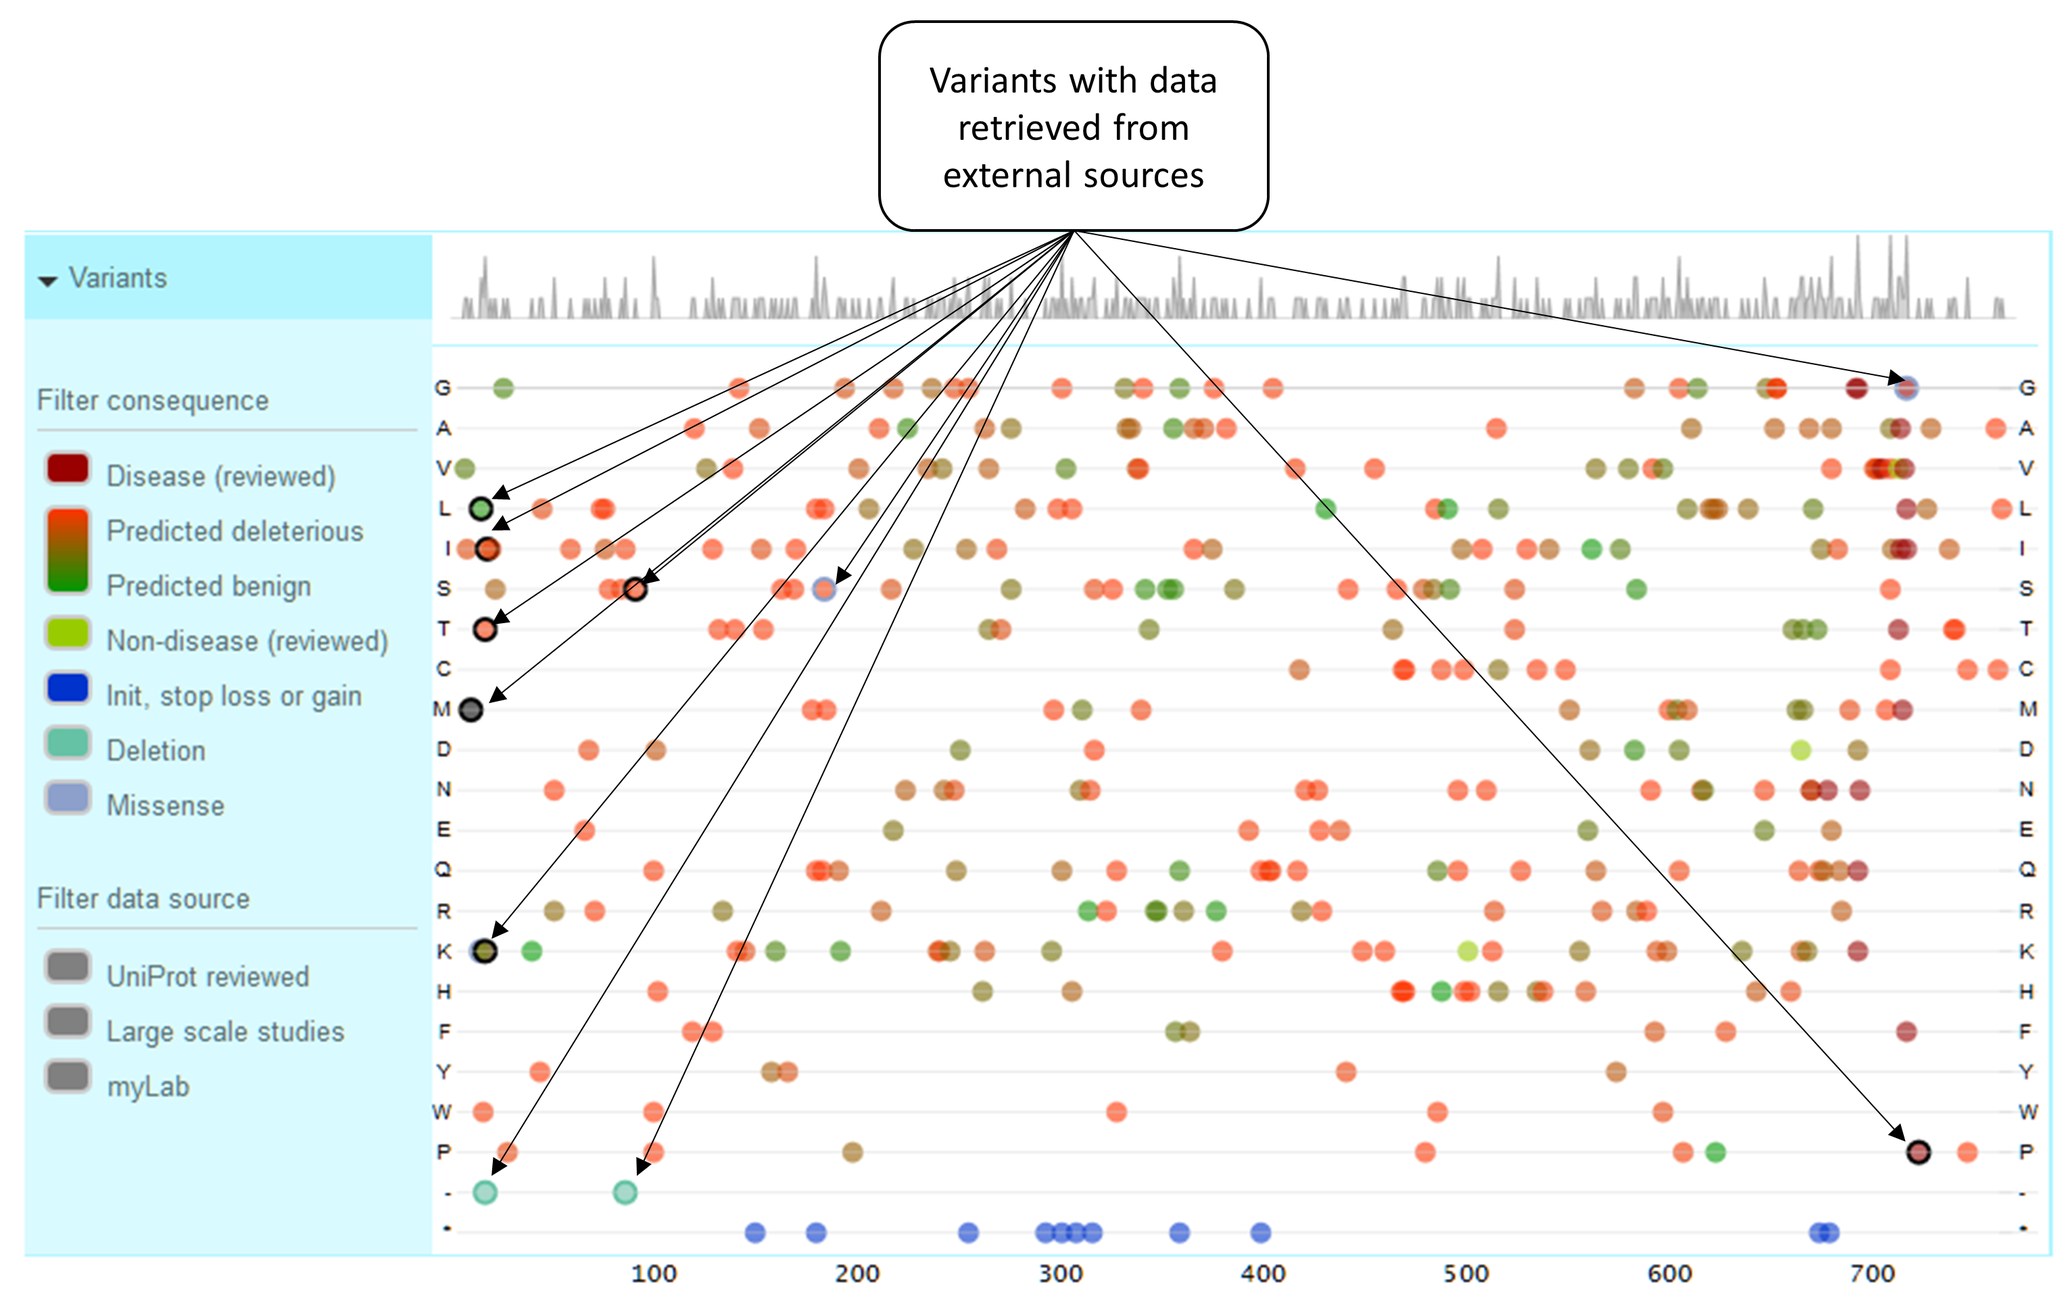
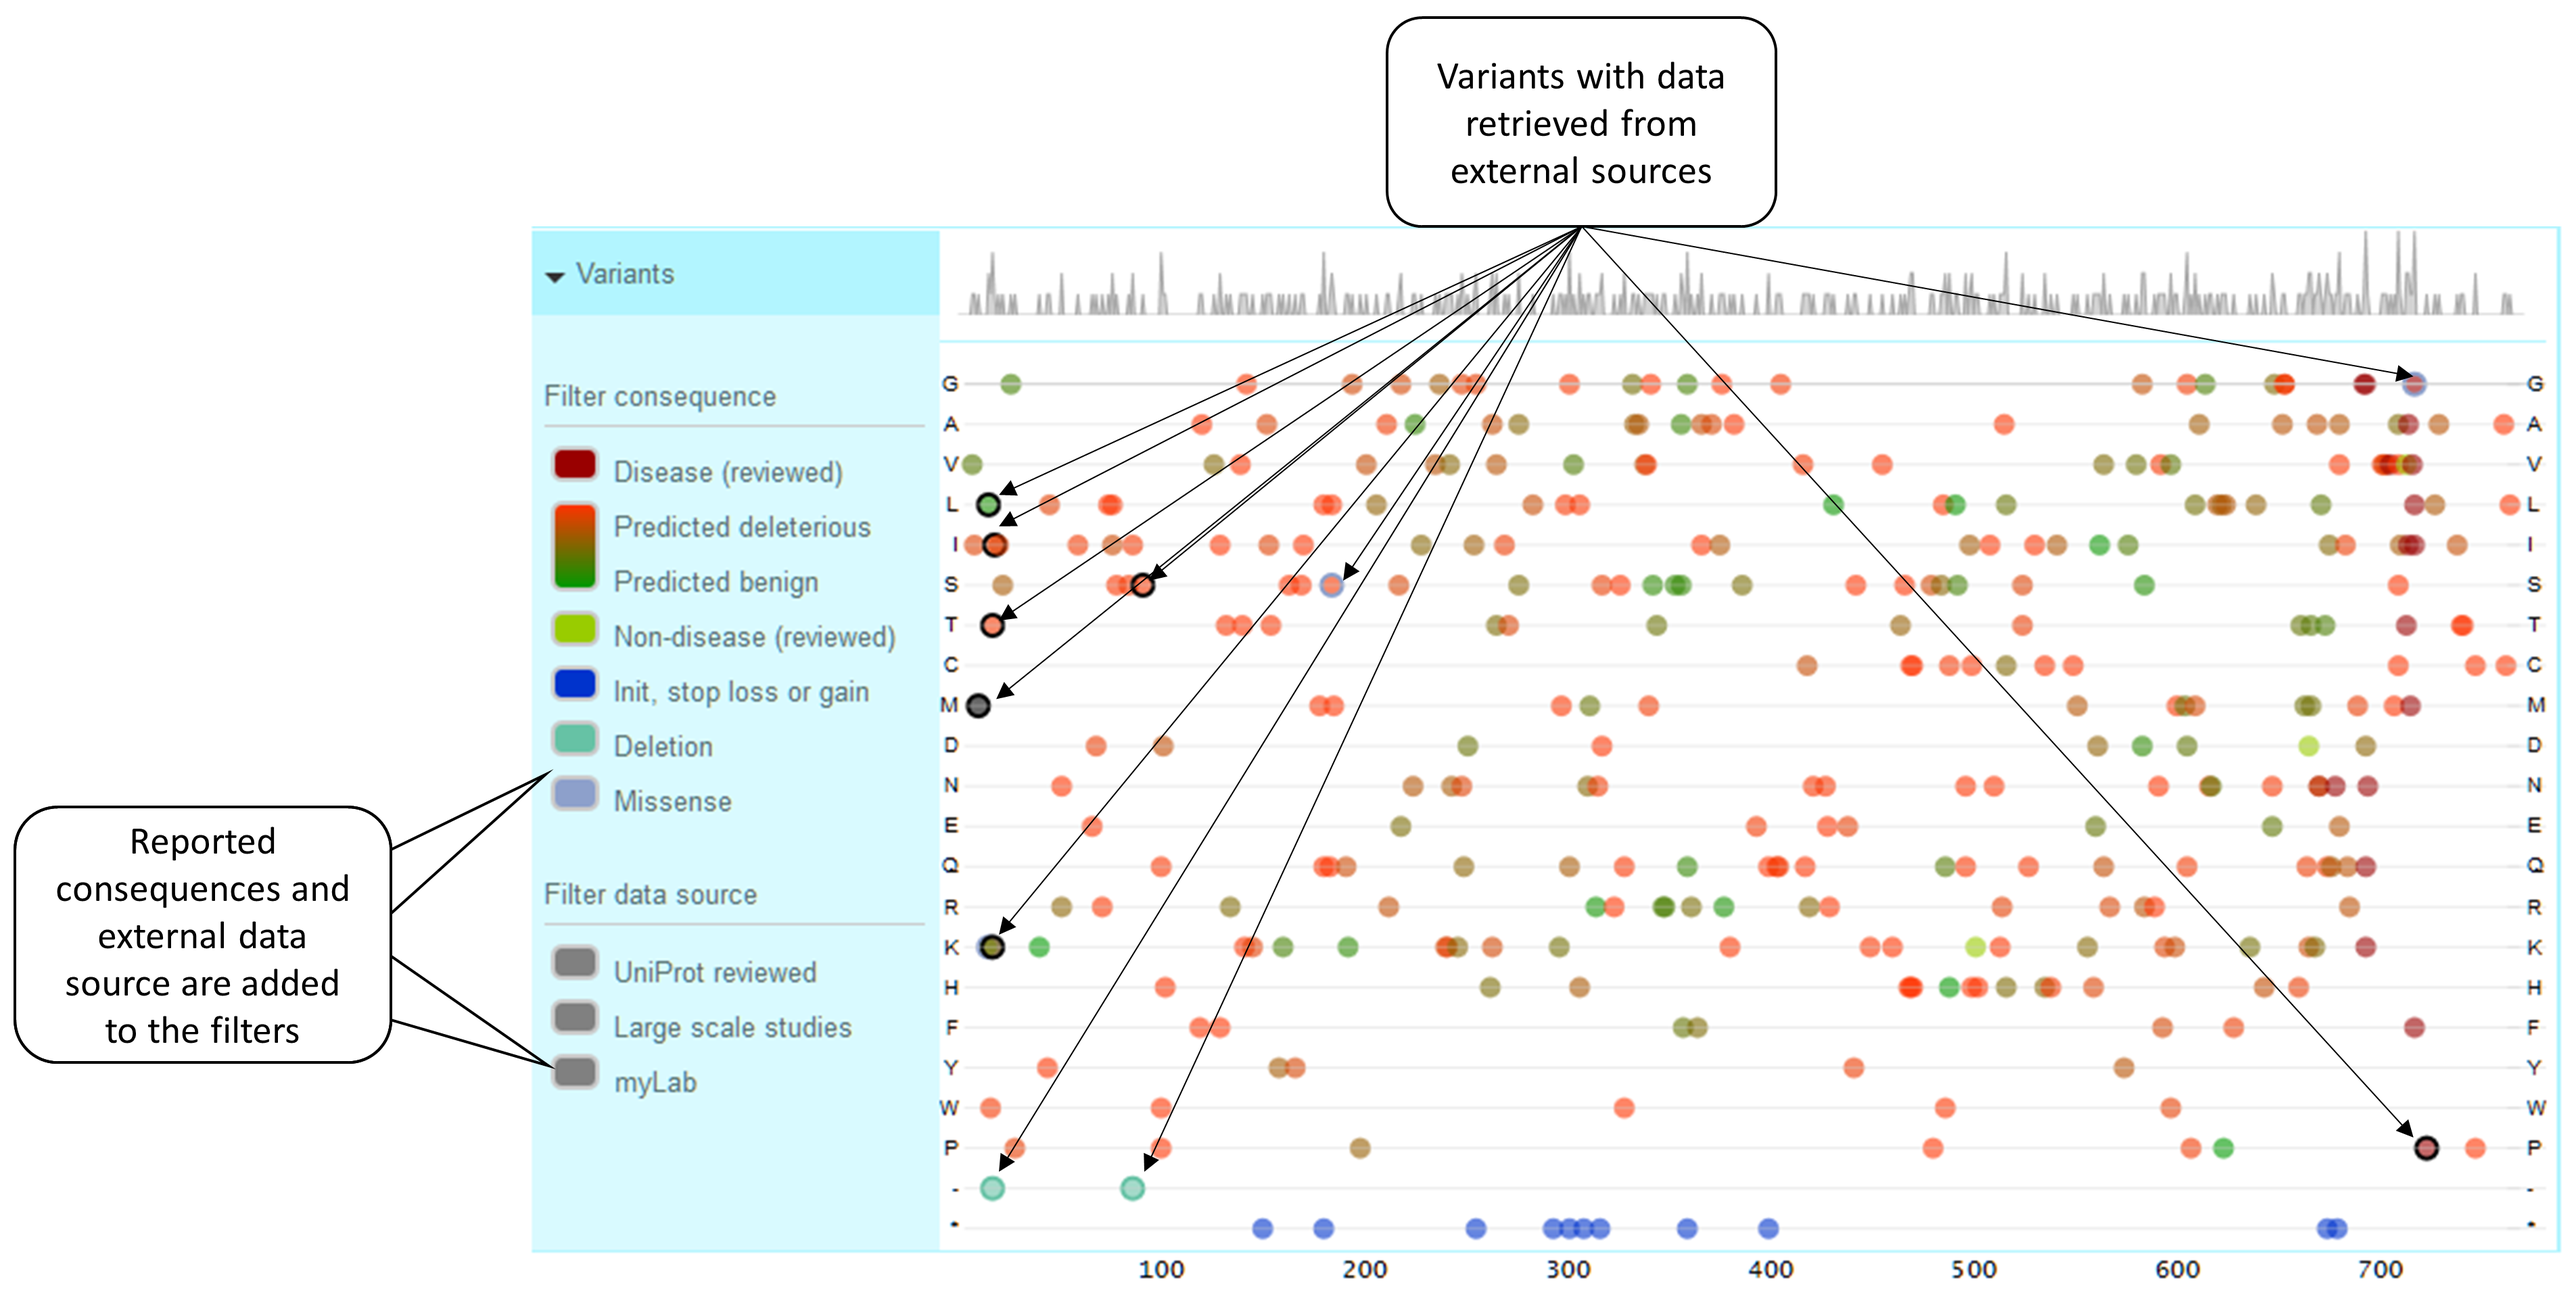
Update variants image.

diff --git a/dataServicesAndFormat.md b/dataServicesAndFormat.md
@@ -267,7 +267,6 @@ Examples of valid variant features:
     "alternativeSequence": "L",
     "begin": "727",
     "end": "727",
-    "color": "violet",
     "xrefs": [
       {
         "name": "my_data curated",
@@ -501,16 +500,16 @@ The overwrite rules are like follows: If **overwritePredictions: false**, the pr
 ![](./images/extSrc_same_variant.png)
 
 * We color variants according to its consequence (burgundy for disease, from red-ish for deleterious to green-ish for benign, and light green for non-disease). External sources can also report consequences for their variants; we will automatically assign a color to them.  All the reported consequences will be added to the consequence filter on the left. Please be aware that due to space limitations we cannot accommodate more than five consequence in addition to the default ones.
-  
+
   * If the same variant is reported by the default and the external data source and the predictions reported by the default source have priority (**overwritePredictions: false**), only those predictions will be used to assign a color and will be shown in the tooltip. As the external data source has not reported a consequence, the circumference is black.
   **Example**: Variant P91S reported by both default and MyLab sources, default predictions have priority.
   ![](./images/extSrc_defaultPredicted_variant.png)
 
-  * If the same variant is reported by the default and the external data source and the predictions reported by the default are overwritten (**overwritePredictions: true**), only the external predictions will be used to assign a color and will be shown in the tooltip. As the external data source has not reported a consequence, the circumference is black. 
+  * If the same variant is reported by the default and the external data source and the predictions reported by the default are overwritten (**overwritePredictions: true**), only the external predictions will be used to assign a color and will be shown in the tooltip. As the external data source has not reported a consequence, the circumference is black.
   **Example**: Variant P91S reported by both default and MyLab sources, external predictions have priority.
   ![](./images/extSrc_externalPredicted_variant.png)
-  
-  * If the same variant is reported by the default and the external data source and the predictions reported by the default are overwritten (**overwritePredictions: true**), only the external predictions will be used to assign a color and will be shown in the tooltip. The consequence reported by the external data is used for the circumference color. 
+
+  * If the same variant is reported by the default and the external data source and the predictions reported by the default are overwritten (**overwritePredictions: true**), only the external predictions will be used to assign a color and will be shown in the tooltip. The consequence reported by the external data is used for the circumference color.
   **Example**: Variant P91S reported by both default and MyLab sources, external predictions have priority, external source reports a consequence.
   ![](./images/extSrc_externalPredictedWithConsequence_variant.png)
 
@@ -521,11 +520,11 @@ The overwrite rules are like follows: If **overwritePredictions: false**, the pr
   * If a variant is reported by an external data source with no prediction nor consequence, black will be used to color such a variant.
   **Example**: Variant L10M reported by MyLab with no prediction nor consequence.
   ![](./images/extSrc_externalUnknownConsequence.png)
-    
+
   * If a variant has a disease association, regardless any prediction data, burgundy will be used to color this variant.
   **Example**: MyLab reports a variant that, according to default data sources, is known to be associated to a disease.
   ![](./images/extSrc_disease_association.png)
-  
+
   * Blue is used for initiator codons and stop loss and gained.
   **Example**: Stop gained variant.
   ![](./images/extSrc_stopGained.png)
